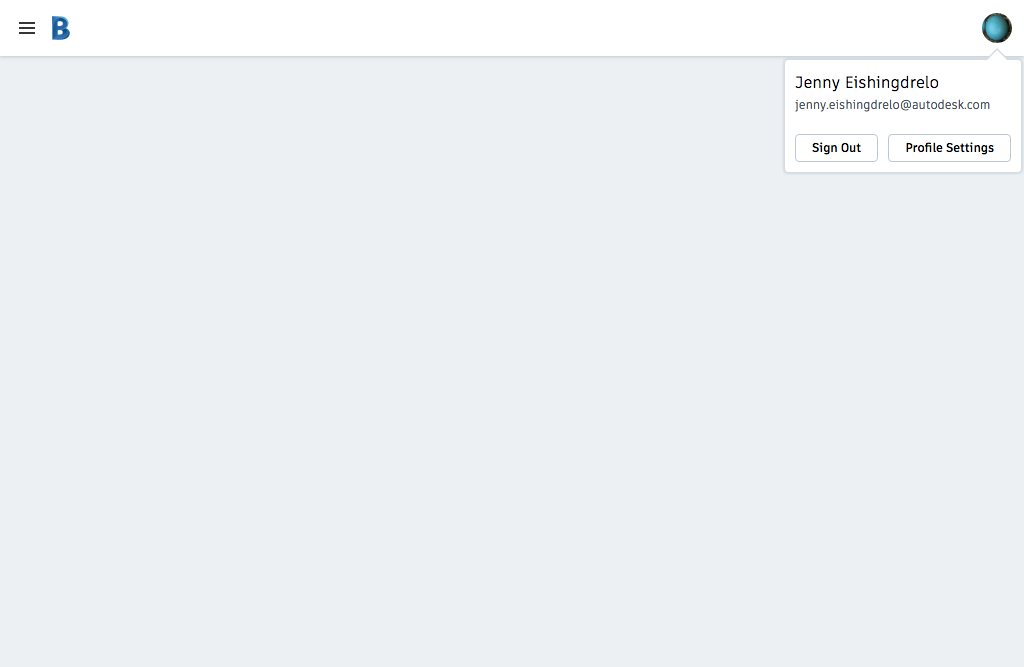
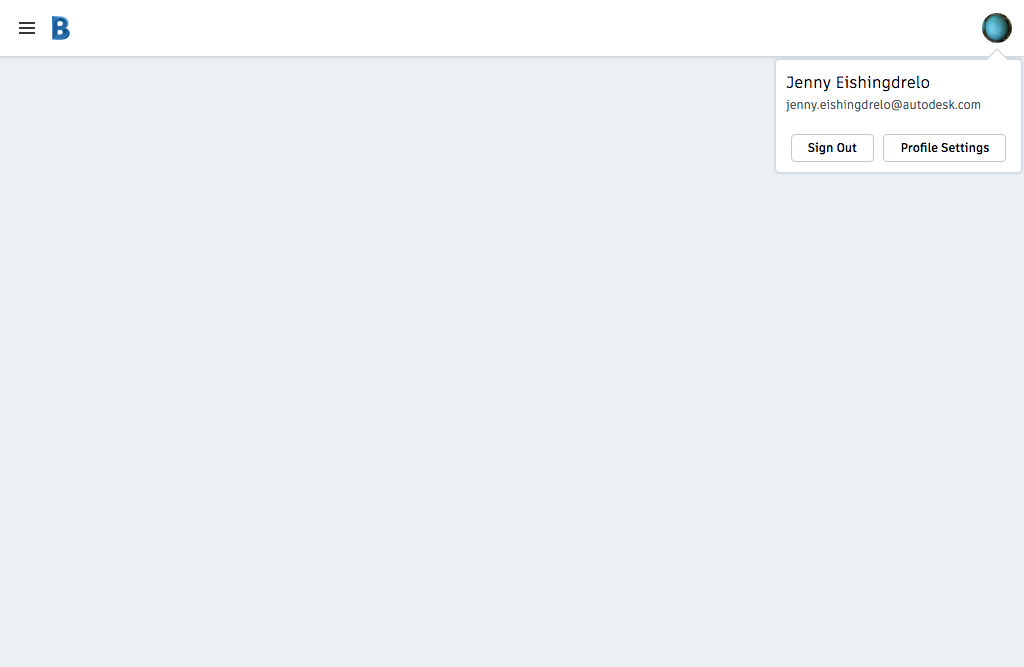
Let profile links wrap

Changed region(s): [[0.75, 0.09, 0.9688, 0.2399]]

diff --git a/packages/vanilla/src/components/global-nav/top-nav/profile/_profile-flyout-content/profile-flyout-content.scss b/packages/vanilla/src/components/global-nav/top-nav/profile/_profile-flyout-content/profile-flyout-content.scss
@@ -2,25 +2,36 @@
 @import '~helpers/css/mixins/base.scss';
 
 .hig__global-nav__top-nav__profile__profile-flyout-content {
-    @include reset;
+  @include reset;
 
-    &__name {
-        white-space: nowrap;
-        text-overflow: ellipsis;
-        overflow-x: hidden;
-        font-size: 16px;
+  &__name {
+    white-space: nowrap;
+    text-overflow: ellipsis;
+    overflow-x: hidden;
+    font-size: 16px;
+  }
+
+  &__email {
+    white-space: nowrap;
+    text-overflow: ellipsis;
+    overflow-x: hidden;
+    font-size: 12px;
+    color: color(hig-cool-gray-50);
+  }
+
+  &__links {
+    display: flex;
+    flex-wrap: wrap;
+    justify-content: space-around;
+    margin-top: 10px;
+    min-width: 225px;
+
+    .hig__button {
+      margin-top: 10px;
     }
 
-    &__email {
-        white-space: nowrap;
-        text-overflow: ellipsis;
-        overflow-x: hidden;
-        font-size: 12px;
-        color: color(hig-cool-gray-50);
+    .hig__button + .hig__button {
+      margin-left: unset;
     }
-
-    &__links {
-        display: flex;
-        margin-top: 20px;
-    }
+  }
 }
